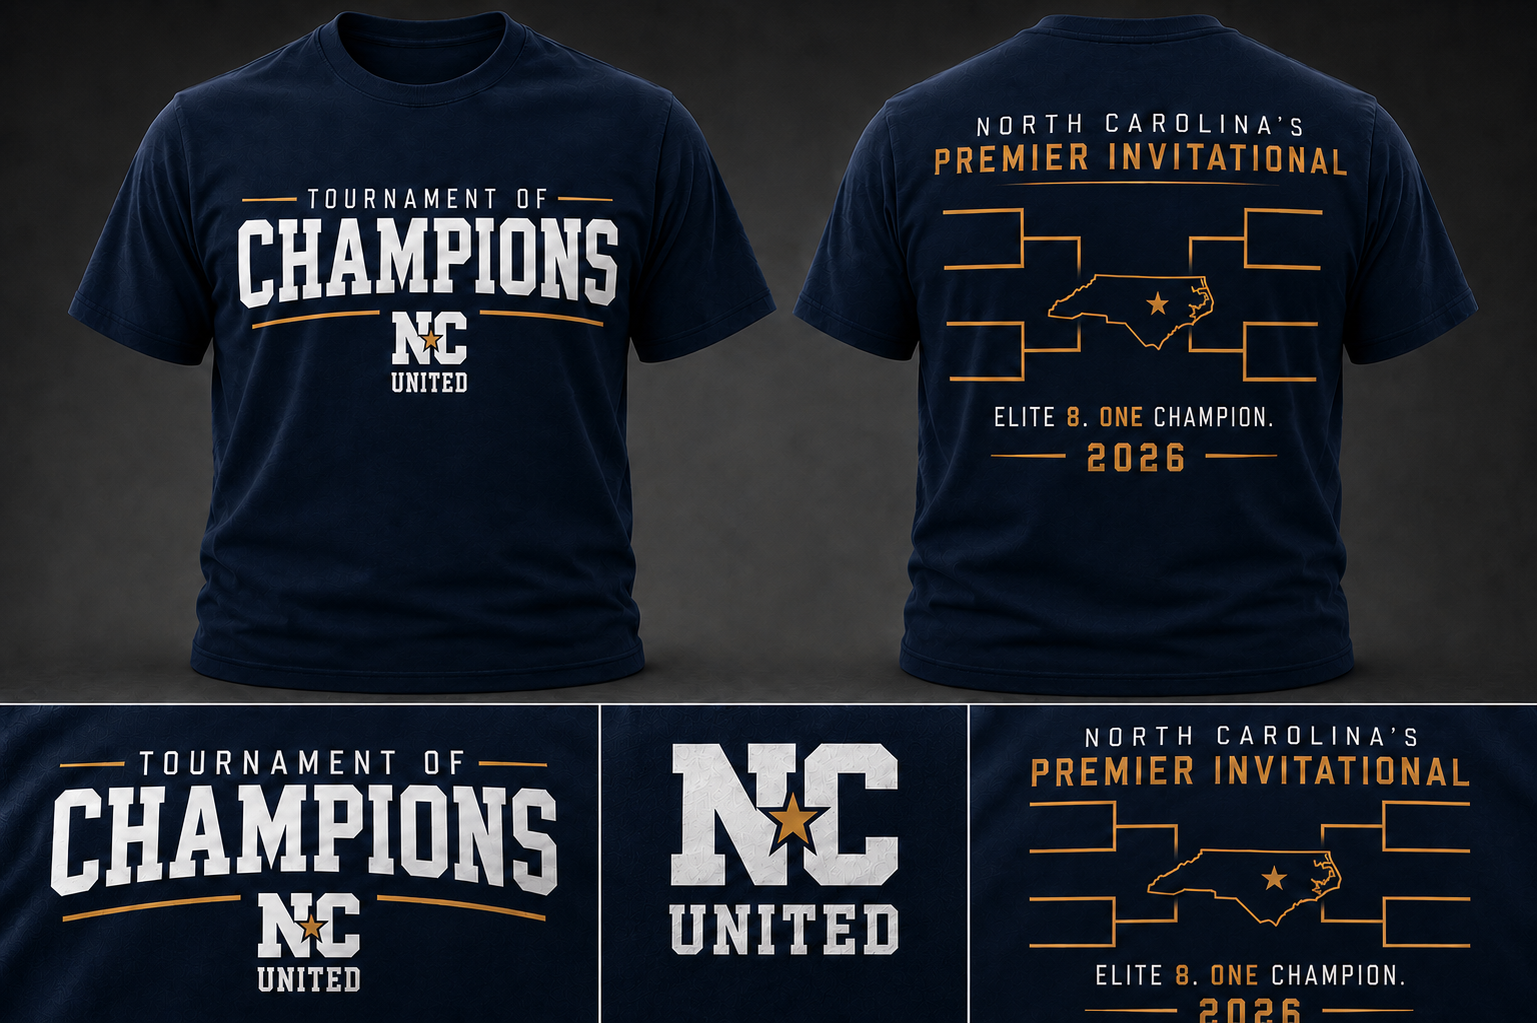
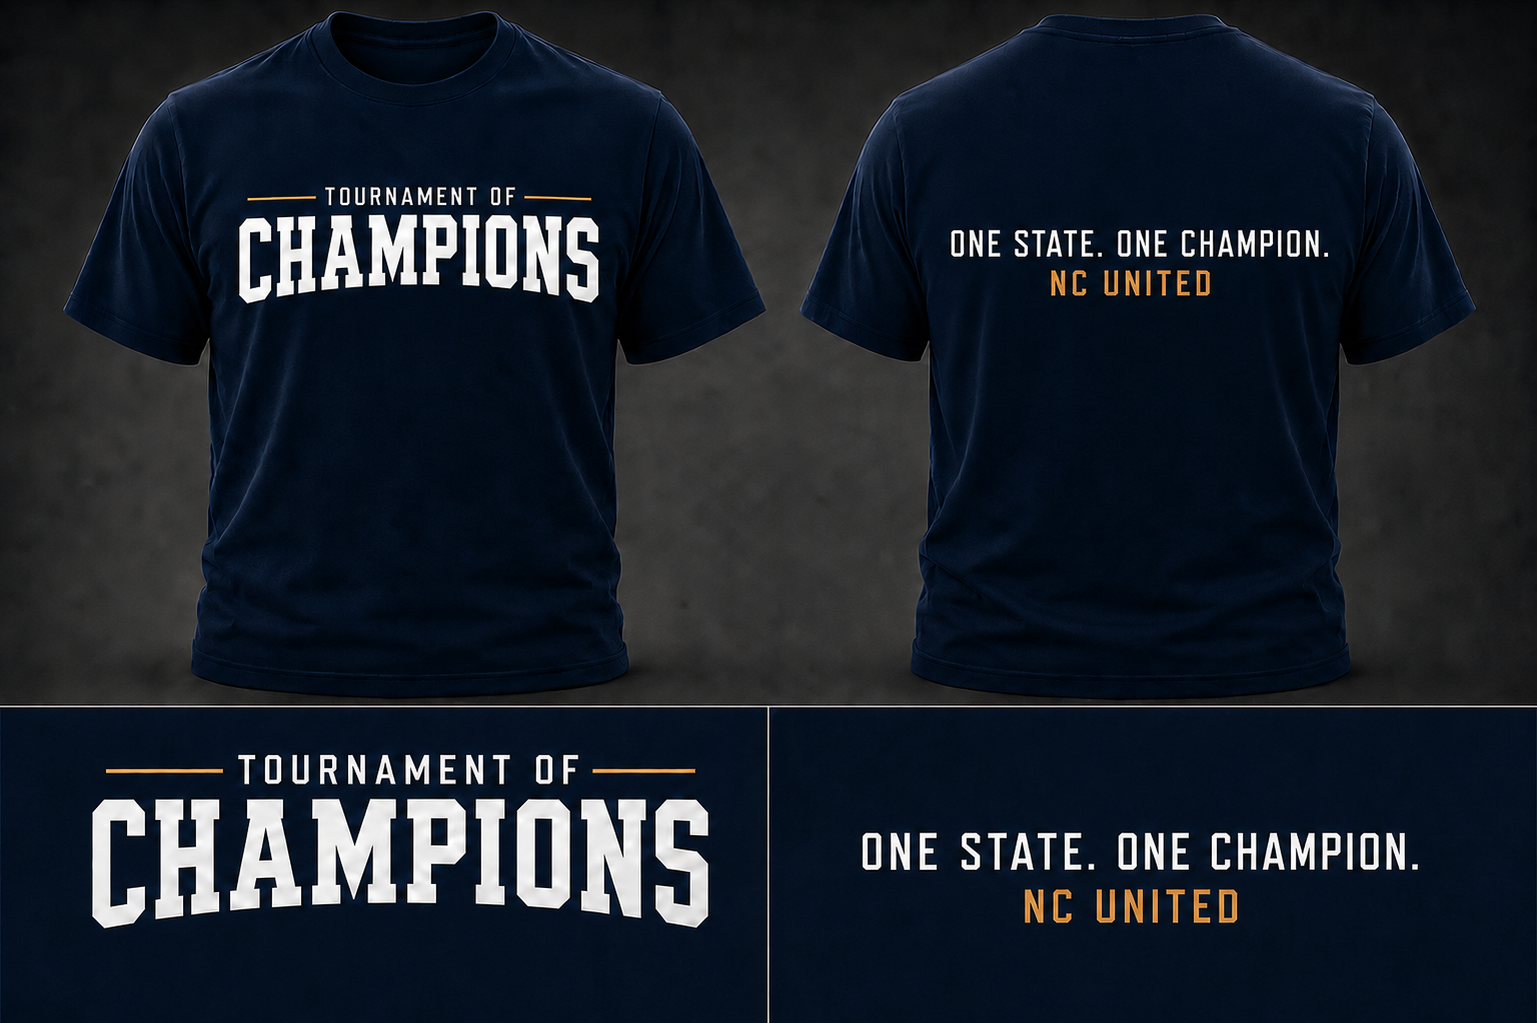
Update Tournament of Champions tee artwork

diff --git a/lib/toc/constants.ts b/lib/toc/constants.ts
@@ -137,13 +137,13 @@ export const TOC_OFFICIAL_TEE = {
   eyebrow: "Official event apparel",
   headline: "The inaugural 2026 Tournament of Champions collection.",
   src: "/images/toc/toc-2026-official-tee.png",
-  alt: "Official navy Tournament of Champions 2026 tee showing the front and back design",
+  alt: "Official navy Tournament of Champions tee with the event wordmark on the front and One State, One Champion on the back",
   width: 1537,
   height: 1023,
   items: [
     "Created as the official apparel of the inaugural NC United Tournament of Champions.",
-    "Front: Tournament of Champions mark with NC United branding.",
-    "Tee back: North Carolina’s Premier Invitational bracket design with the 2026 event year.",
+    "Front: Tournament of Champions wordmark in white and gold.",
+    "Tee back: One State. One Champion. with NC United in gold.",
     "Crewneck: same front mark, clean back — built to wear all season, not just event weekend.",
   ],
 } as const
@@ -161,7 +161,7 @@ export const TOC_OFFICIAL_APPAREL = [
     label: "Event tee",
     caption: "Front & back",
     src: "/images/toc/toc-2026-official-tee.png",
-    alt: "Official navy Tournament of Champions 2026 tee — front mark and back bracket design",
+    alt: "Official navy Tournament of Champions tee — event wordmark on the front and One State, One Champion on the back",
     width: 1537,
     height: 1023,
   },
